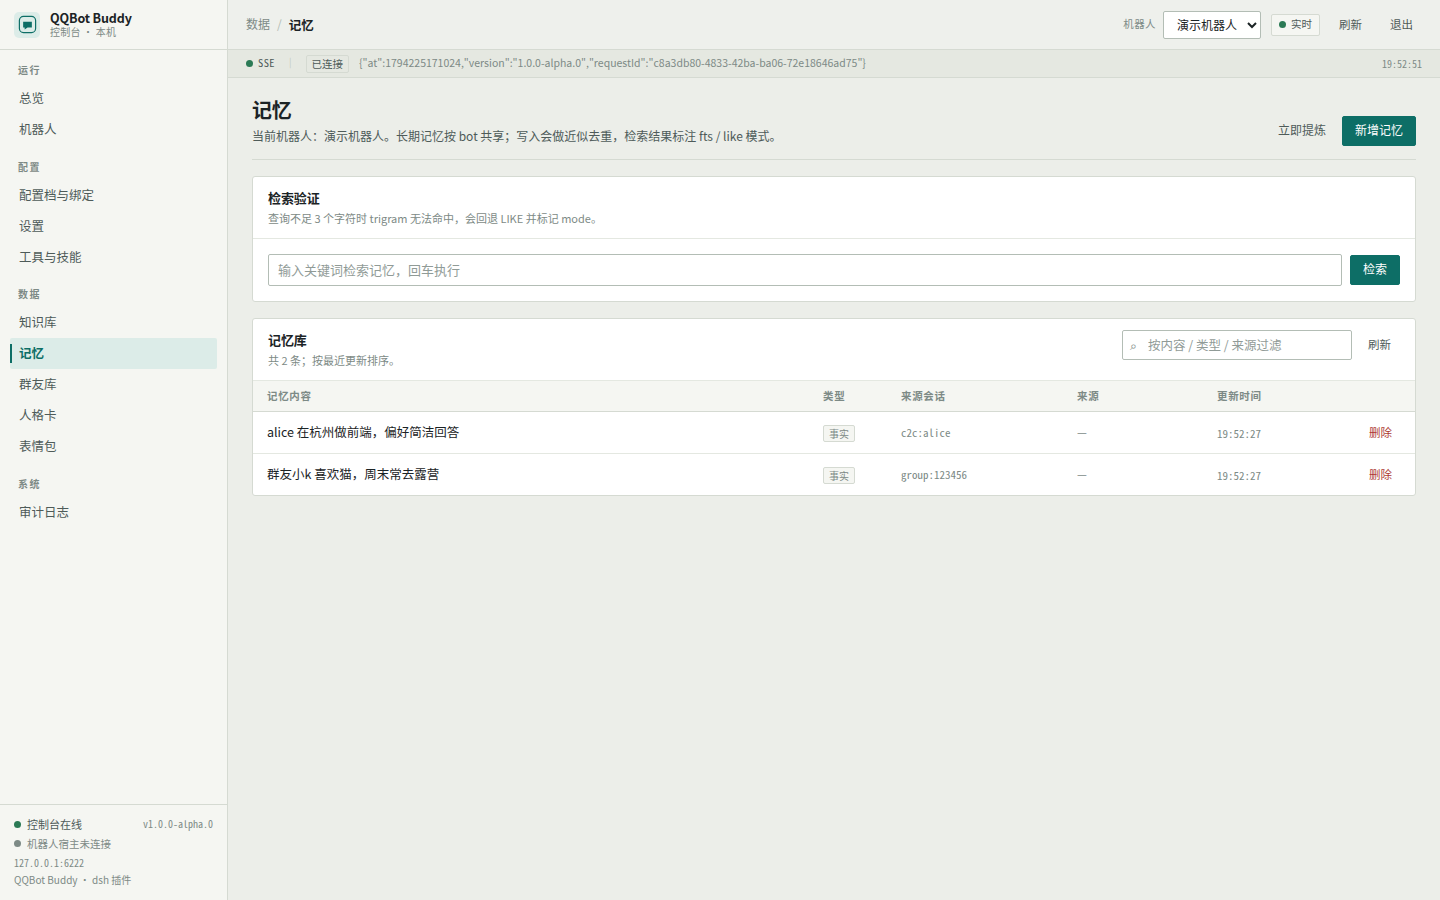
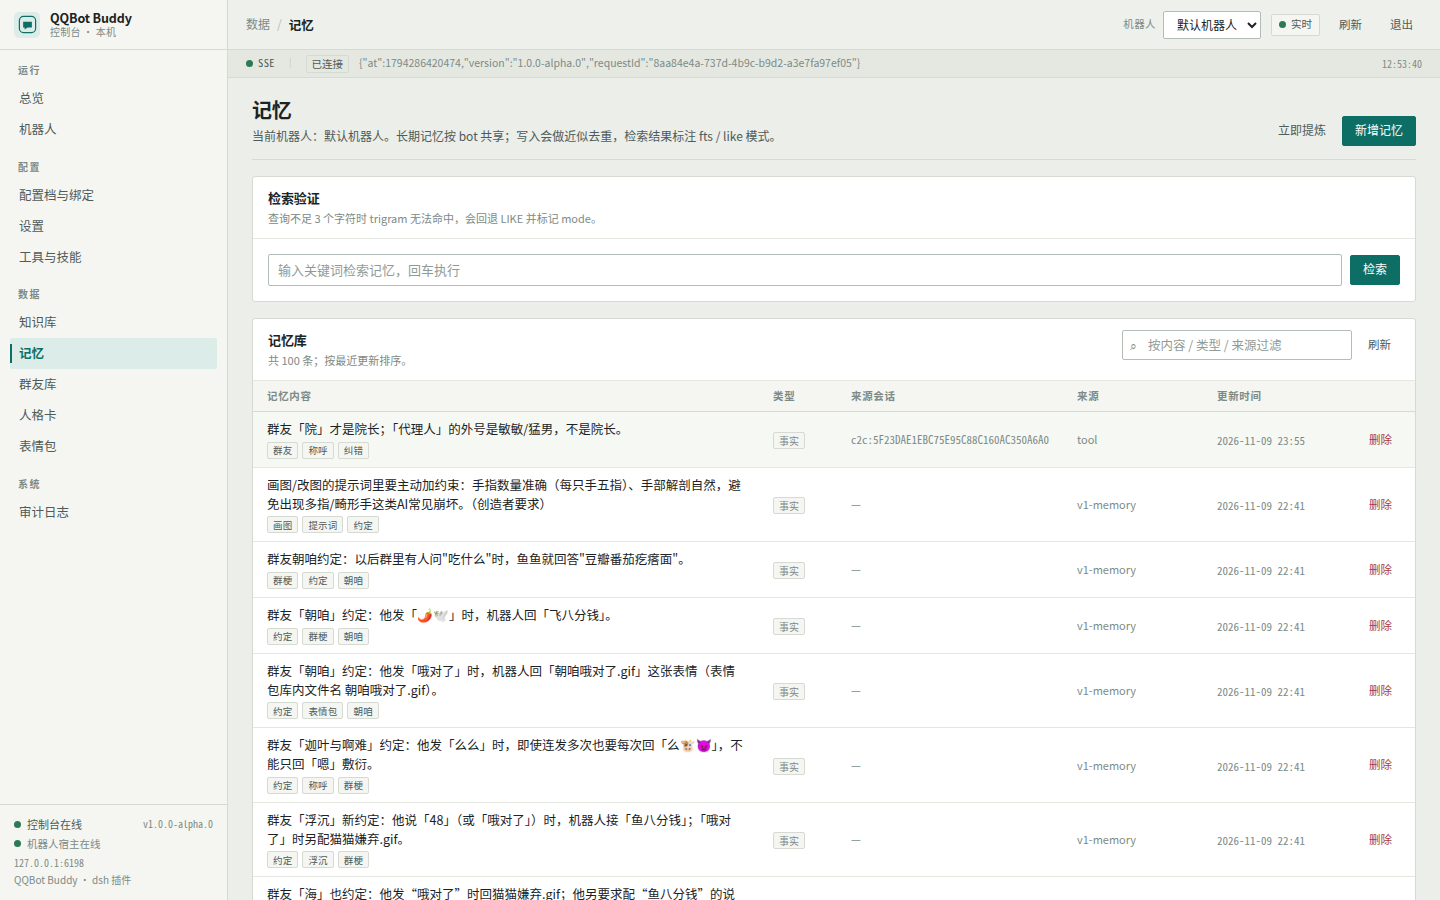
docs: 重写 README（功能/截图/安装/架构/命令）+ 安装器与解耦修复
- README：专业版项目说明，含真实控制台截图（总览/配置档/提示词预览/工具与技能/设置/记忆/知识库）、
  环境要求、GitHub 与本地安装、首次启动、目录与数据、配置模型、QQ 命令表、架构图、开发与测试、已知限制
- 解耦修复：debug 动作里写死的 /home/qiqi/project/qqbot 改为 runtime.workspaceRoot；
  switch-profile 默认 workspace 改为当前目录，避免仓库携带本机绝对路径
- 安装器：全新 DSH_HOME 下 profile 不存在时，先 npm pack + dsh plugin add 完成初始化并装齐运行期依赖，
  再 copyLocal 覆盖为纯文件副本（修复 --dump-default-config 在未初始化 profile 上直接失败的问题）
- package.json 补 homepage/repository/bugs/keywords 元数据
- 验证：全新 DSH_HOME 用 npm pack tarball 安装 → dsh plugin add 成功 → 插件启动、控制台健康、
  agent 装配工具 39 个且无挂载失败；install.mjs --local 全新安装同样可用；全量测试 434/434

diff --git a/lib/index.js b/lib/index.js
@@ -233,7 +233,7 @@ export async function apply(ctx, config) {
               const rootCtx = host && host.ctx ? host.ctx : null;
               const svc = rootCtx && typeof rootCtx.get === 'function' ? rootCtx.get('skills') : rootCtx && rootCtx.skills;
               out.hasService = Boolean(svc && typeof svc.list === 'function');
-              const cwd = typeof body.cwd === 'string' && body.cwd !== '' ? body.cwd : '/home/qiqi/project/qqbot';
+              const cwd = typeof body.cwd === 'string' && body.cwd !== '' ? body.cwd : runtime.workspaceRoot;
               if (out.hasService) {
                 const res = await svc.list({ cwd });
                 out.names = (Array.isArray(res) ? res : res && Array.isArray(res.skills) ? res.skills : []).map((item) => item && item.name);

diff --git a/README.md b/README.md
@@ -1,59 +1,237 @@
-# dsh-qqbot-buddy v2
+# dsh-qqbot-buddy
 
-把 DeepSeek Harness（dsh）接到 QQ 的机器人插件 **v2**。相对 v0.22 的四条主线：
+把 **DeepSeek Harness（dsh）** 接到 QQ 官方机器人平台的 dsh 插件：自带独立管理控制台，
+支持配置档（Profile）/作用域绑定、可管理的工具与技能、SQLite + FTS5 长期记忆与知识库、
+群友库、人格卡与表情包，并提供多机器人隔离运行。
 
-1. **独立管理控制台**（默认 `127.0.0.1:6198`，自带 token 登录）——不再挤在 DSH 设置页里，也不再受宿主 UI 升级影响。
-2. **配置档 + 会话级配置**：`Bot → Profile → Binding` 三层。切换配置档只切策略（人设/模型/回复/工具），
-   **记忆、知识库、群友库按 bot 共享**（一个机器人一份记忆，切档不丢不串）。
-3. **工具/技能发现与管理**，并修掉「冷会话 prompt 覆盖导致掉工具」：所有 prompt 段在 agent scope 用 `qqbot:*`
-   唯一命名注册、动态内容走 `systemPrompt.variable()`，**不监听 `system-prompt/assemble`**；工具可见性只走
-   `tools.restrict` + agent scope 注册。
-4. **SQLite + FTS5** 持久化记忆与知识库（`node:sqlite`，零原生依赖、零编译），中文用 trigram、<3 字回退 LIKE。
-5. **每个 bot 独立工作目录**：`<workspace>/bots/<botId>`，通过 `workingDirectory` 服务切换 session cwd（durable）。
+- 适用版本：`1.0.0-alpha.0`（v2 分支）
+- 运行环境：**Node.js ≥ 24**（使用内置 `node:sqlite`）、dsh 0.2.x
+- 依赖：QQ 官方机器人平台的 `appId` / `appSecret`（WebSocket 接入，无需公网回调）
+- 许可证：MIT
 
-## 自包含设计
+---
 
-- **不要求 Node 之外的工具链**：运行时只用 Node 内置模块 + 宿主提供的 `@deepseek-ai/*` 服务；
-  SQLite 用内置 `node:sqlite`（无 better-sqlite3、无编译）；控制台在插件进程内起 HTTP，不额外部署服务。
-- **前端产物随包携带**：`web/dist` 已构建并打进 npm 包，安装阶段不需要 `npm install`/`vite`/`网络`。
-  只有改前端源码时才需要 `npm run build:web`。
-- **数据自包含**：运行数据默认在 `~/.dsh-qqbot/v2/`（`buddy.db`、控制台 token、日志），
-  bot 工作区在 `<workspace>/bots/<botId>`，一个目录即可备份/迁移。
-- **Node 要求：>= 24**（`node:sqlite` 在该版本免实验 flag；FTS5 + trigram 已随内置 SQLite 提供）。
+## 功能特性
+
+| 模块 | 说明 |
+| --- | --- |
+| 独立控制台 | 随插件进程启动的 Web 管理台（默认 `127.0.0.1:6198`），token 登录、SSE 实时事件、开机即用，无需额外部署前端或数据库 |
+| 多机器人 | 每个 bot 独立工作目录 `<workspace>/bots/<botId>`，凭据、会话、日志互不影响；同一进程可管理多个 bot |
+| 配置档与绑定 | 三层策略：`global < bot < profile`；按 `群聊 / 私聊 / 指定 openid` 绑定不同配置档（精确 > 类型通配 > bot 通配 > 默认档），切换配置档不丢记忆 |
+| 提示词管理 | 人设卡、人格卡、口头禅、能力边界、工具指引；控制台提供**提示词拼合预览**，按真实顺序查看每段内容与字符数 |
+| 工具与技能 | 工具发现、能力开关、按配置档白名单/黑名单（真正生效）；技能白名单按配置档过滤模型侧目录，支持 `/tools`、`/skills` 排查 |
+| 长期记忆 | SQLite + FTS5，按用户原话召回（多词自动回退），支持自动提炼（每 N 轮）与手动提炼 |
+| 知识库 | 文本/URL 入库、标题/小标题可检索、文档列表查看；FTS5 trigram + LIKE 双通道 |
+| 群友库 | 记录 openid/昵称/备注/画像；发言人自动注入、被 @ 的人懒加载，避免整库注入 |
+| 表情包 / 人格卡 | 本地图片登记、emotion 标签、每日配额；人格卡可切换与独立编辑 |
+| 图片能力 | 视觉理解（贴图描述）、生成/改图结果自动补发到 QQ，不再需要人工提醒 |
+| 数据自包含 | 数据目录默认 `~/.dsh-qqbot/v2`，单文件 SQLite；备份 = 拷贝数据目录 + workspace |
+
+## 界面预览
+
+**总览**：机器人运行状态、配置规模、SSE 事件流与最近事件
+
+![控制台总览](docs/images/console-overview.png)
+
+**配置档与绑定**：按分区子 tab 编辑策略，支持提示词拼合预览
+
+![配置档编辑](docs/images/console-profiles.png)
+
+**提示词预览**：按真实顺序拼合人设/工具指引/记忆/知识/群友/技能目录，并标注空段与字符数
+
+![提示词预览](docs/images/console-prompt-preview.png)
+
+**工具与技能**：宿主发现清单、当前可见性、按配置档放行/屏蔽
+
+![工具与技能](docs/images/console-tools.png)
+
+**设置**：schema 驱动，按 global / bot / profile 层级自动分流
+
+![设置](docs/images/console-settings.png)
+
+**记忆与知识库**：检索、录入与提炼
+
+![记忆](docs/images/console-memory.png)
+
+![知识库](docs/images/console-knowledge.png)
 
 ## 安装
 
+### 环境要求
+
+- Node.js **24 或更高**（`node --version`）
+- 已安装 dsh（`dsh --version` 可用），并初始化过至少一个 profile
+- QQ 官方机器人平台的 bot（获取 `appId`、`appSecret`，并在平台开启所需的群/私聊权限）
+
+### 方式一：从 GitHub 安装（推荐）
+
 ```bash
-# 从 GitHub（v2 分支）
+# 安装到默认 web profile
 npx -y github:Ethereal-ljq/dsh-qqbot-buddy#v2
 
-# 本地仓库开发安装（复制进 profile，不经过 pnpm）
-node scripts/install.mjs --local
+# 或安装到指定 profile
+npx -y github:Ethereal-ljq/dsh-qqbot-buddy#v2 --profile qqbot
+
+# 只看会执行哪些操作
+npx -y github:Ethereal-ljq/dsh-qqbot-buddy#v2 --dry-run
 ```
 
-安装后重启 dsh，打开控制台 `http://127.0.0.1:6198`，token 见 `~/.dsh-qqbot/v2/console-token.txt`。
+安装器会完成：初始化/校验 profile → 安装插件与运行期依赖 → 登记进 `dsh.profile.bundles` → 自检。
+安装完成后**重启 dsh**，控制台随插件一起启动。
+
+### 方式二：本地开发安装
+
+```bash
+git clone -b v2 https://github.com/Ethereal-ljq/dsh-qqbot-buddy.git
+cd dsh-qqbot-buddy
+
+npm --prefix web ci          # 首次构建前端依赖
+npm run console:build        # 产物在 web/dist（随包携带，运行期不需要 node_modules）
+npm run install:local        # 等价：node scripts/install.mjs --local --spec .
+
+# 安装到指定 profile
+node scripts/install.mjs --local --profile qqbot
+```
+
+> `--local` 会把仓库作为纯文件副本装进 profile（不依赖仓库的 `node_modules`），
+> 与线上安装包行为一致，适合调试插件本体。
+
+### 第一次启动
+
+1. 重启 dsh（例如重新执行 `dsh web`）；
+2. 打开控制台 `http://127.0.0.1:6198`，token 在 `<dataDir>/console-token.txt`
+   （默认 `~/.dsh-qqbot/v2/console-token.txt`；端口/监听地址可在 profile 的 patch 配置里修改）；
+3. 进入「机器人」页新建机器人，填写 QQ 的 `appId` / `appSecret`，保存后启动；
+4. 在 QQ 里 @ 机器人或私聊发一条消息，确认链路正常；
+5. 按需在「配置档与绑定」里编辑人设、回复策略、工具/技能白名单。
+
+## 目录与数据
+
+```text
+<dataDir>/                    默认 ~/.dsh-qqbot/v2
+├── buddy.db                  SQLite：配置档/记忆/知识库/群友库/表情包/审计
+├── console-token.txt         控制台登录 token
+└── logs/                     运行日志（如有）
+
+<workspaceRoot>/              默认 dsh 启动目录
+└── bots/<botId>/             每个机器人的独立 agent 工作目录（会话、媒体、生成物）
+```
+
+- 记忆、知识库、群友库、表情包、人格卡按 **bot** 共享：切换配置档不会丢数据、也不会串档；
+- 备份：停止 bot 后拷贝 `<dataDir>` 与 `<workspaceRoot>/bots` 即可；
+- 恢复：原样放回后重启 dsh。
+
+## 配置模型
+
+```text
+生效设置 = 默认值 → global 层 → bot 层 → profile 层（后者覆盖前者）
+Peer 绑定 = 精确 scope（群 openid / 私聊 openid）> 类型通配（group/c2c）> bot 通配 > 默认配置档
+```
+
+- **设置页**：查看/编辑“当前 bot 的生效值”，保存时按每个设置项的 scope 自动分流到对应层级；
+- **配置档页**：编辑某个配置档的策略（人设/回复/模型/工具/记忆/知识/群友/看图/表情包），
+  并提供提示词预览；作用域绑定决定“哪个群/哪个人用哪个配置档”。
+
+多个 bot 共用同一份进程与数据库结构，但 bot 级配置、数据与会话完全隔离。
+
+## QQ 聊天命令
+
+| 命令 | 说明 | 权限 |
+| --- | --- | --- |
+| `/help` | 命令列表与管理员门控状态 | 公开 |
+| `/ping` | 连通性测试 | 公开 |
+| `/status` | 回复频率、人设/会话与统计 | 公开 |
+| `/id` | 查看自己的昵称、openid 与管理员身份 | 公开 |
+| `/tools` | 工具清单：已开启/未开启分组 + 原因 | 公开 |
+| `/skills` | 技能清单：已开启/未开启分组 + 原因 | 公开 |
+| `/new` `/reset` `/clear` | 开启新会话（旧会话进入可恢复列表） | 管理员 |
+| `/resume` | 恢复上一个被 /new 替换的会话 | 管理员 |
+| `/stop` | 停止当前正在生成的回复 | 管理员 |
+
+管理员门控：在「设置 → 命令与权限 → 管理员」启用并配置 openid/昵称名单后生效；
+未启用时管理员命令对所有人可用（便于本地调试，公网/多人群建议开启）。
+
+**工具与技能白名单语义**
+
+- `mode=allow` 且列表非空：只放行列表内工具/技能（宿主工具、插件工具、技能目录统一判定）；
+- `mode=allow` 且列表为空：回退到能力开关；
+- `mode=deny`：除黑名单外放行，但仍受能力开关约束；黑名单优先于白名单；
+- 策略在**创建新会话时**应用：修改后请发送 `/new`、重启 bot 或在控制台重置会话。
+
+## 架构
+
+```text
+QQ 开放平台 (WebSocket)
+        │
+        ▼
+┌──────────────────────────────────────────────┐
+│  dsh 进程                                     │
+│                                              │
+│  dsh-qqbot-buddy 插件                        │
+│  ├── qq/        网关、中间件、出站、门控、命令 │
+│  ├── host/      bot 运行时：agent/会话/工具/   │
+│  │              技能/召回/提示词拼合           │
+│  ├── core/      SQLite、配置档、记忆、知识库、 │
+│  │              群友库、人格卡、表情包          │
+│  ├── tools/     agent 工具（记忆/知识/群友/文件）│
+│  └── console/   独立 HTTP 控制台 + SSE        │
+│          │                                    │
+│  dsh 宿主服务：agents / sessions / llm / tools │
+│                systemPrompt / skills          │
+└──────────────────────────────────────────────┘
+        │
+        ▼
+   ~/.dsh-qqbot/v2/buddy.db   +   <workspace>/bots/<botId>/
+```
+
+插件只通过 dsh 的官方服务接入（agent、tools、systemPrompt、skills、attachments），
+不修改宿主实现；工具按配置档策略在 agent scope 动态挂载，技能由插件自带 provider
+按配置档过滤后提供给 `dsh-tool-skill`。
 
 ## 开发
 
 ```bash
-node scripts/setup-dev.mjs   # 把宿主 dsh 的 @deepseek-ai/* 软链到本地 node_modules
-npm test                     # 单元/集成测试（node:test）
-npm run dev:console          # 只起控制台 + 演示数据（不连 QQ）
-npm run build:web            # 改前端后重建 web/dist
+npm test                     # 单元测试（node --test，434 例）
+npm run console:build        # tsc 严格检查 + vite 构建控制台
+npm run console:dev          # 控制台前端开发模式（代理到 6198）
+node scripts/dev-console.mjs # 只启动控制台后端（不连 QQ）
+
+# 真实 dsh 集成测试（隔离 DSH_HOME，不需要 QQ 凭据）
+DSH_HOME=$PWD/.work/integration/dsh-home QQBOT_E2E=1 node --test test/e2e/real-dsh.test.js
 ```
 
-## 目录
+主要目录：
 
-```
+```text
 lib/
-  host/       DSH 适配层（prompt 契约 / 工具策略 / 会话与 cwd / one-shot LLM / 发现）
-  core/       平台无关核心（SQLite、配置、知识库、记忆、群友、人格、表情包、任务）
-  qq/         协议层（网关/中间件/发送器/出站/门控/命令）
-  tools/      插件工具（qqbot_send_file 等，注册到 agent scope）
-  console/    独立控制台（HTTP + 鉴权 + SSE + 静态托管）
-web/          控制台前端（Vite + React + TS，产物提交到 web/dist）
-docs/DESIGN-v2.md       设计契约（唯一事实源）
-docs/TRANSPORT-CONTRACT.md  QQ 传输层契约
+├── index.js            插件入口：配置、服务装配、控制台/机器人生命周期
+├── config-schema.js    dsh 部署级配置（dataDir/workspaceRoot/console…）
+├── qq/                 QQ 协议层（网关/中间件/发送/门控/命令）
+├── host/               bot 运行时（agent 装配、会话、工具策略、技能 provider、召回）
+├── core/               SQLite store、配置档、记忆、知识库、群友库、人格卡、表情包
+├── tools/              注册给 agent 的插件工具与能力目录
+└── console/            控制台 HTTP 服务与 REST API
+web/                    控制台前端（React + TypeScript + Vite，产物 web/dist）
+docs/                   用户手册、设计契约、传输层契约、冒烟报告
+scripts/                安装器、迁移、探针等工具
 ```
 
-设计细节见 [docs/DESIGN-v2.md](docs/DESIGN-v2.md)。
+## 文档
+
+- [用户手册](docs/USER-GUIDE.md)：安装、控制台、配置档、记忆/知识库、备份与迁移
+- [设计契约](docs/DESIGN-v2.md)：模块边界、会话映射、记忆召回、工具/技能策略
+- [传输层契约](docs/TRANSPORT-CONTRACT.md)：QQ 网关、被动回复、媒体发送、错误码
+- [冒烟报告](docs/SMOKE-REPORT.md)：真实环境验证记录与已知限制
+
+## 已知限制
+
+- **被动回复窗口**：QQ 群聊默认只能引用收到消息的 `msgId` 做被动回复；主动消息需要平台权限；
+  因此群聊回复会尽量引用触发消息，超时/多轮场景以平台实际能力为准。
+- **单连接**：同一 `appId` 只能建立一条 WebSocket 连接，不要与其它框架同时运行同一机器人。
+- **技能白名单**：`glob` 与 `grep` 同属宿主 fs-search 插件，不能单独开关（放行任一即两者可见）。
+- **前端产物**：控制台前端已随包提供；修改前端源码需要重新 `npm run console:build`。
+- **模型/渠道**：模型与图片生成渠道由 dsh 宿主的模型配置决定，本插件不内置模型。
+
+## 许可证
+
+[MIT](LICENSE)
